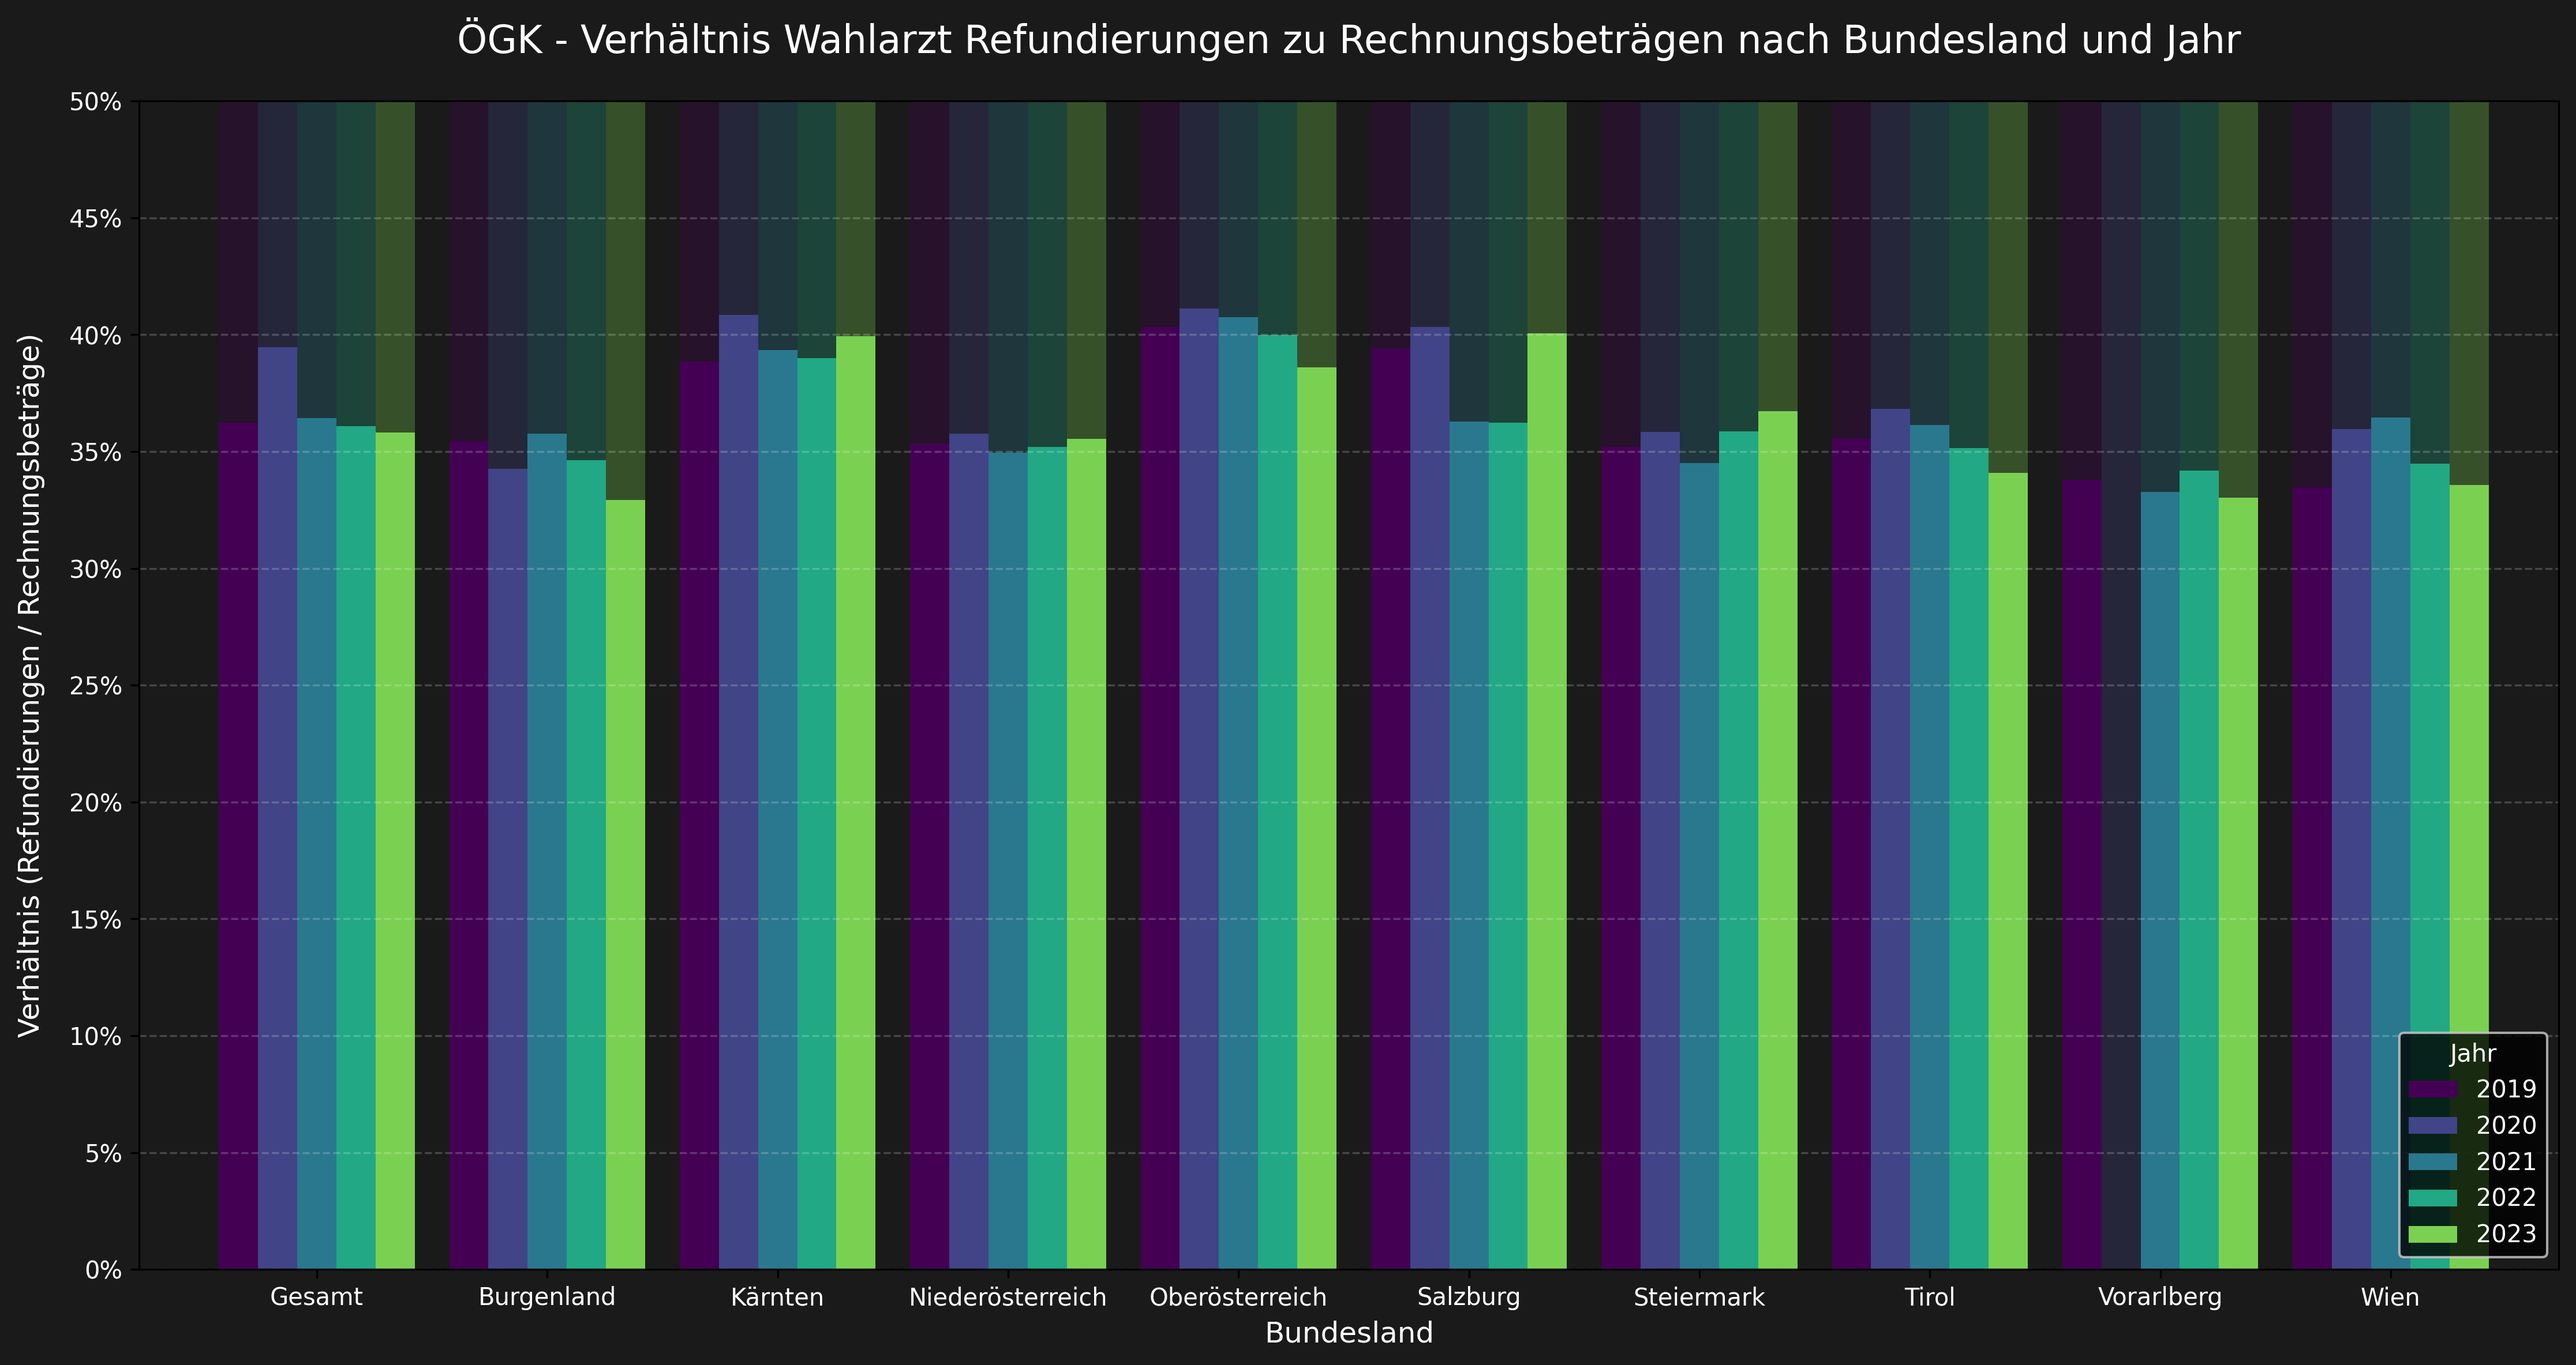
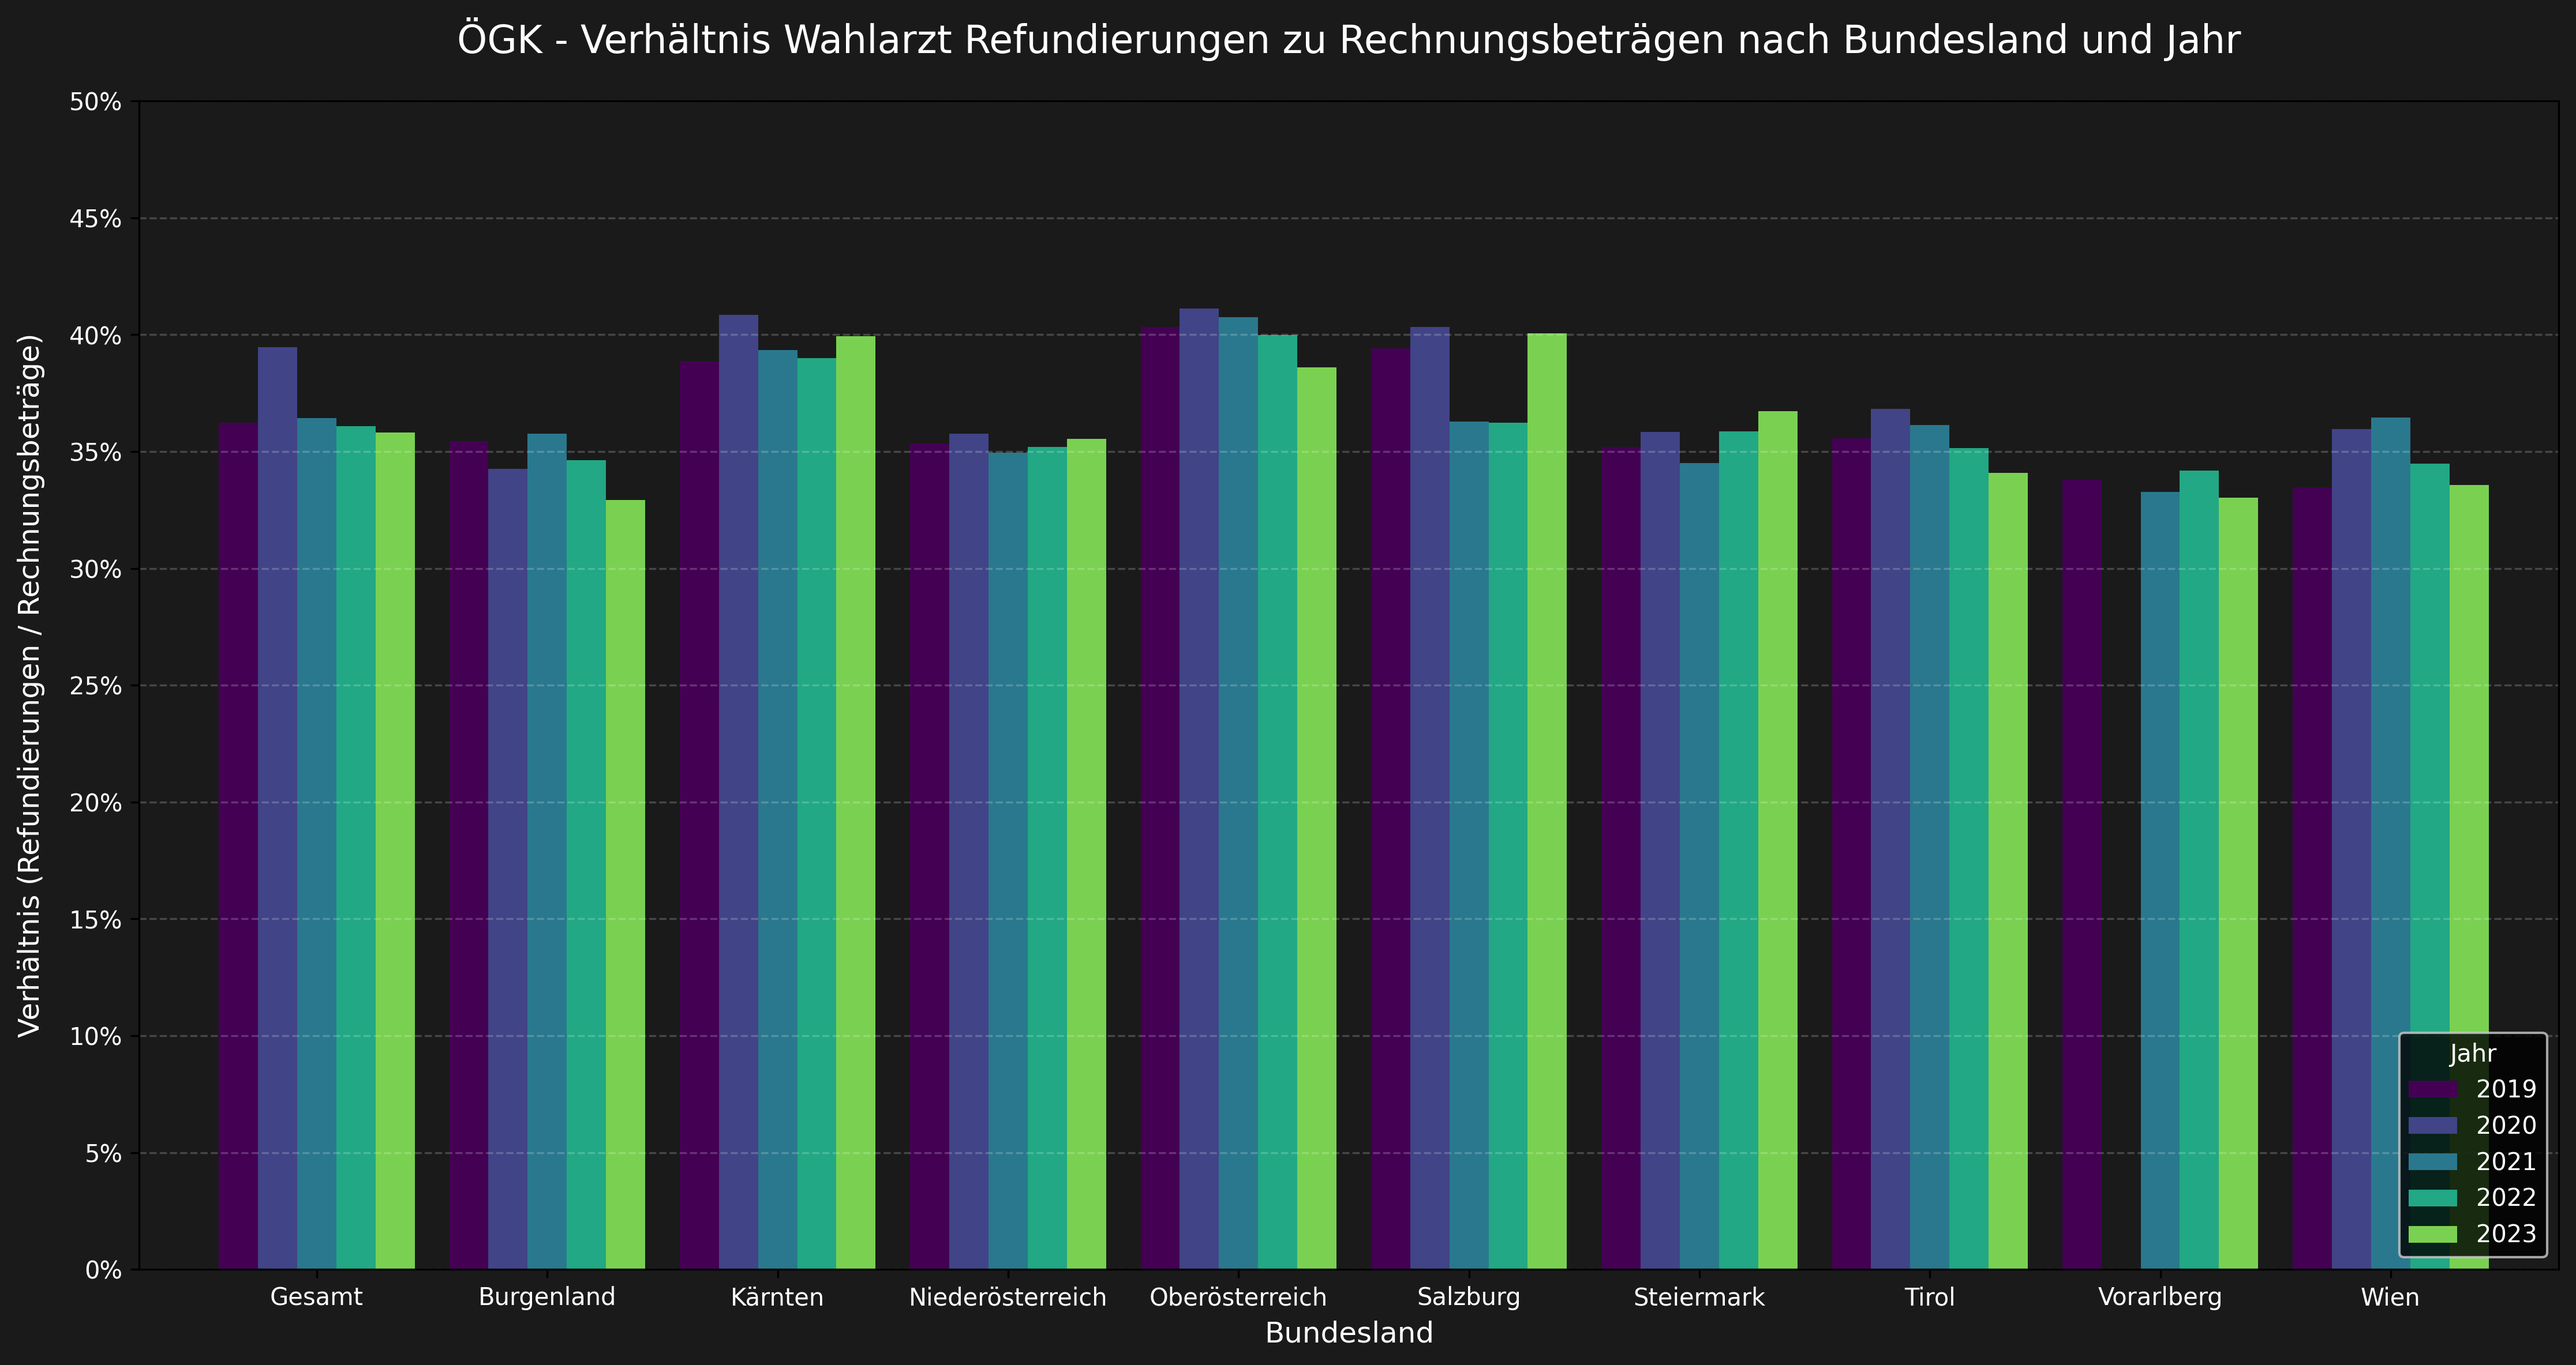
plot betrage: hidden background bars (misleading, as it is always 100%)

Changed region(s): [[0.2802, 0.0617, 0.9653, 0.9252], [0.0934, 0.0617, 0.2491, 0.3701]]

diff --git a/visualize/plot_oegk_betraege_ratio.py b/visualize/plot_oegk_betraege_ratio.py
@@ -65,18 +65,20 @@ def create_plot(input_file, dark_mode=True, is_updated=False):
                 bars.append(
                     ax.bar(i + (j - 1) * bar_width, ratio, bar_width, color=color)
                 )
-                # Add the remaining area in a lighter shade
-                remaining = 0.5 - ratio
-                if remaining > 0:
-                    bars.append(
-                        ax.bar(
-                            i + (j - 1) * bar_width,
-                            remaining,
-                            bar_width,
-                            bottom=ratio,
-                            color=plt.cm.viridis(j / len(years), alpha=0.3),
+                add_honorare=False
+                if add_honorare:
+                    # Add the remaining area in a lighter shade
+                    remaining = 0.5 - ratio
+                    if remaining > 0:
+                        bars.append(
+                            ax.bar(
+                                i + (j - 1) * bar_width,
+                                remaining,
+                                bar_width,
+                                bottom=ratio,
+                                color=plt.cm.viridis(j / len(years), alpha=0.3),
+                            )
                         )
-                    )
 
     # Customize the plot
     text_color = "white" if dark_mode else "black"
